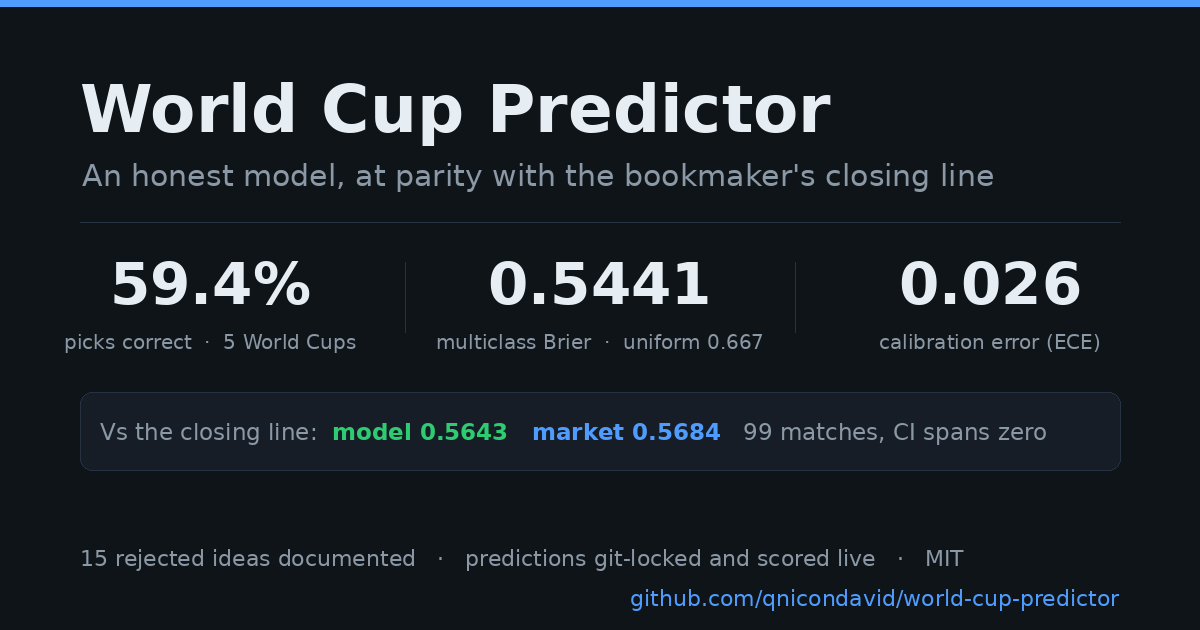
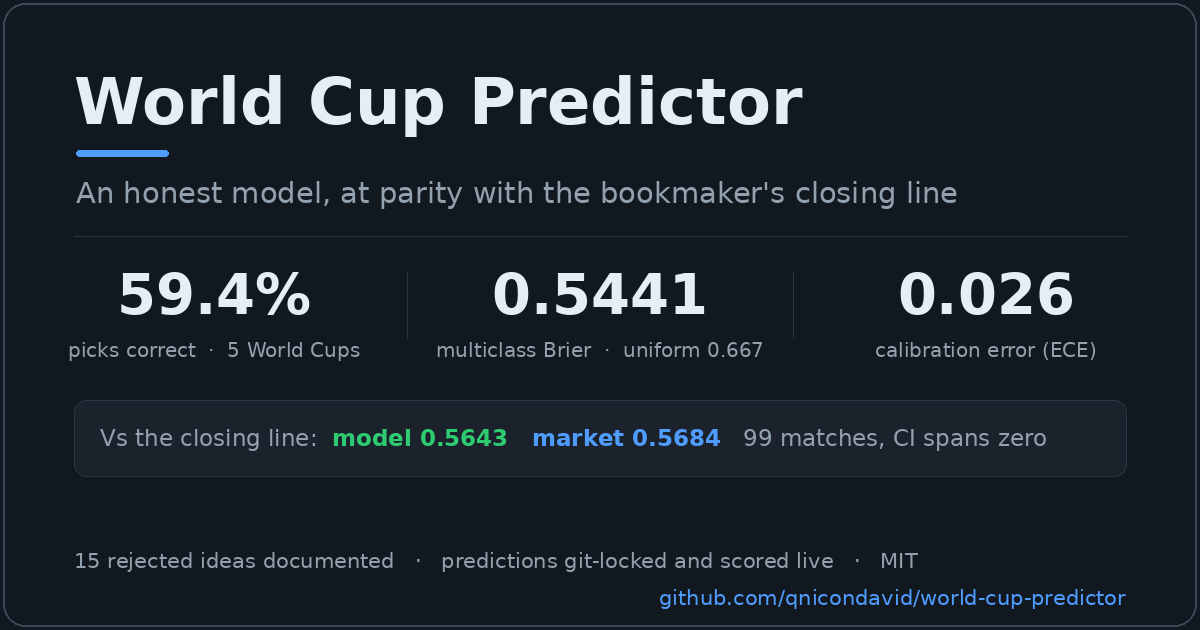
site+README: frame the preview card and center the README hero (width 760, links to demo)

diff --git a/README.md b/README.md
@@ -1,6 +1,10 @@
 # World Cup Predictor
 
-![World Cup Predictor dashboard: at parity with the bookmaker closing line](docs/preview.png)
+<p align="center">
+  <a href="https://qnicondavid.github.io/world-cup-predictor/">
+    <img src="docs/preview.png" alt="World Cup Predictor dashboard: at parity with the bookmaker closing line" width="760">
+  </a>
+</p>
 
 A prediction model for FIFA World Cup matches, trained on 150+ years of
 international football results (49,000+ matches, 1872 to today). Predictions are
